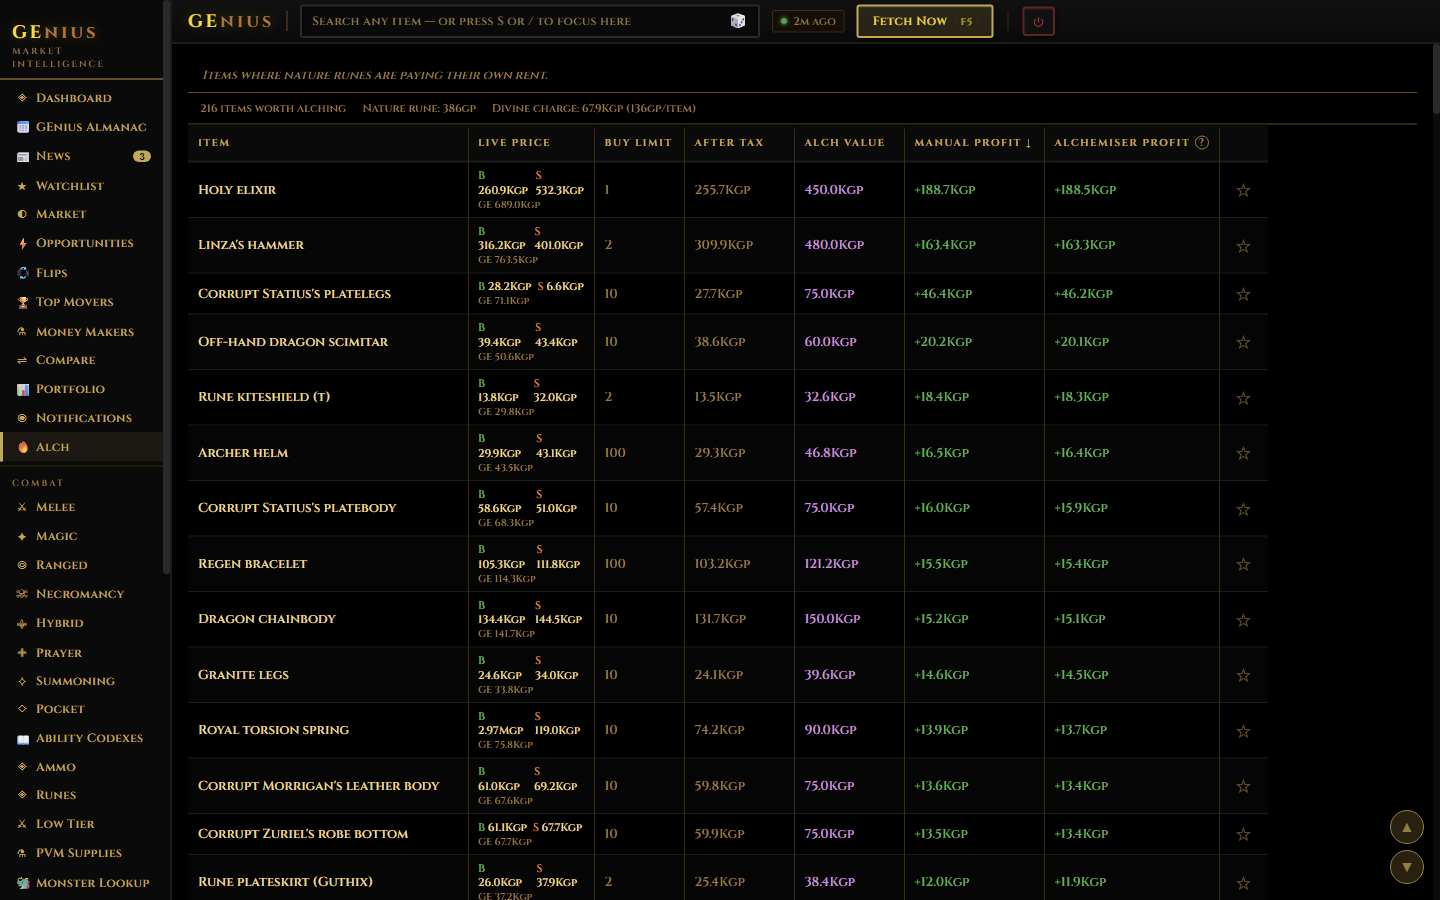
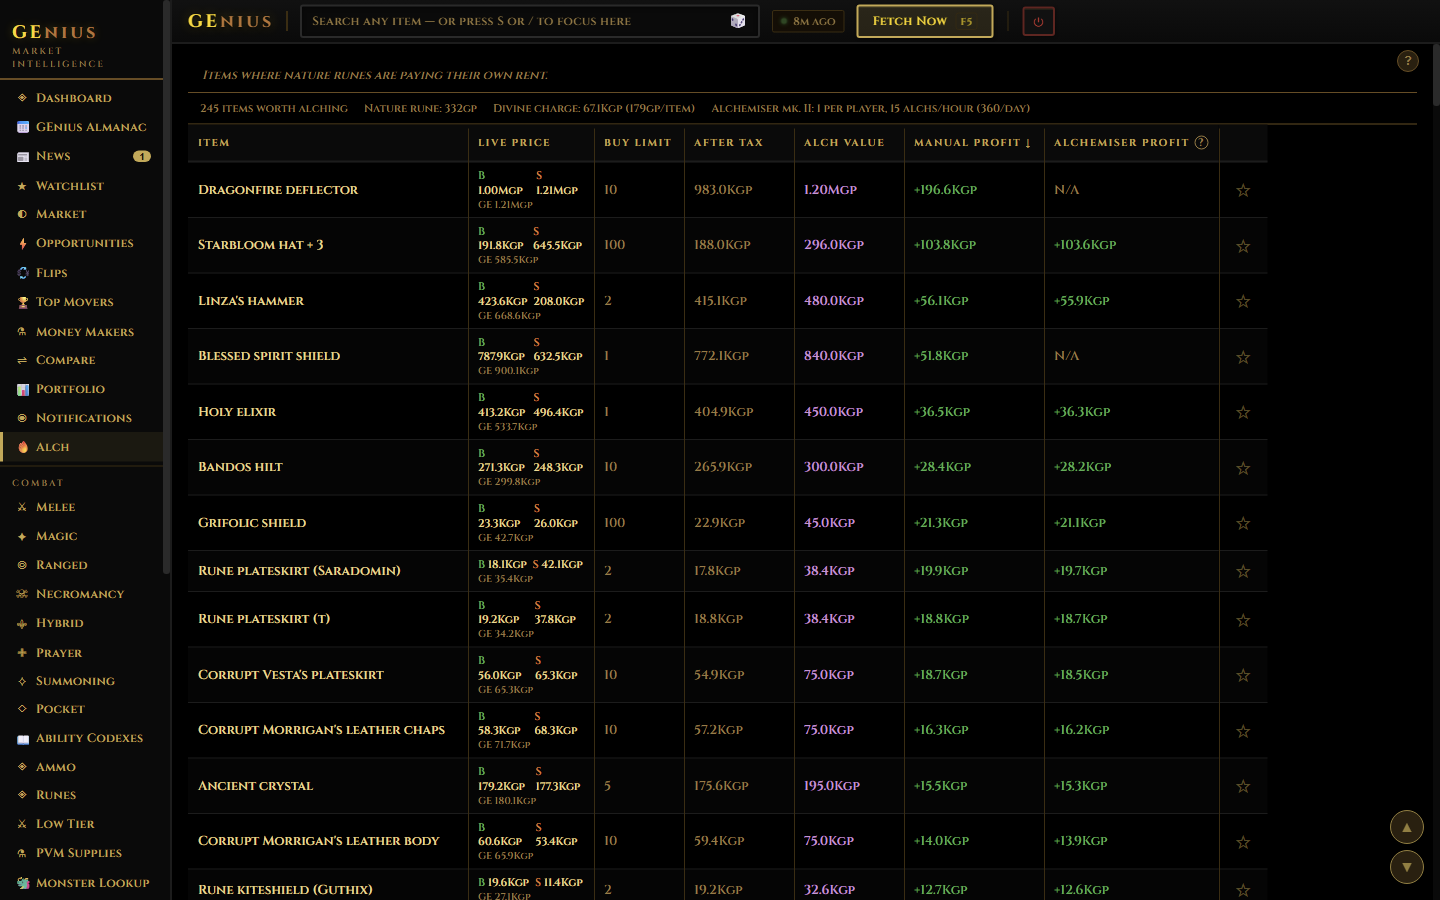
Site: retake Money Makers, Flips, Portfolio and Alch screenshots in both themes

diff --git a/scripts/site-shots.js b/scripts/site-shots.js
@@ -76,6 +76,8 @@ function fakeData(items) {
     // Farming open (2026-11-23): shows the skill pills and the newest calculator.
     'money-makers': `window.__geniusTest.goto('money_makers').then(() => new Promise(r => setTimeout(r, 1200))).then(() => { const b = [...document.querySelectorAll('.content button')].find(x => x.textContent.trim() === 'Farming'); b && b.click(); return new Promise(r => setTimeout(r, 2000)); })`,
     'watchlist': `window.__geniusTest.goto('watchlist')`,
+    'portfolio': `window.__geniusTest.goto('portfolio')`,
+    'alch': `window.__geniusTest.goto('alch')`,
     // Phone shots: 412x915 at 2x (824x1830, the size on the site). IS_PHONE is
     // set once at load, so these run after a reload at phone size (below).
     'phone-dashboard': `window.__geniusTest.goto('dashboard')`,
